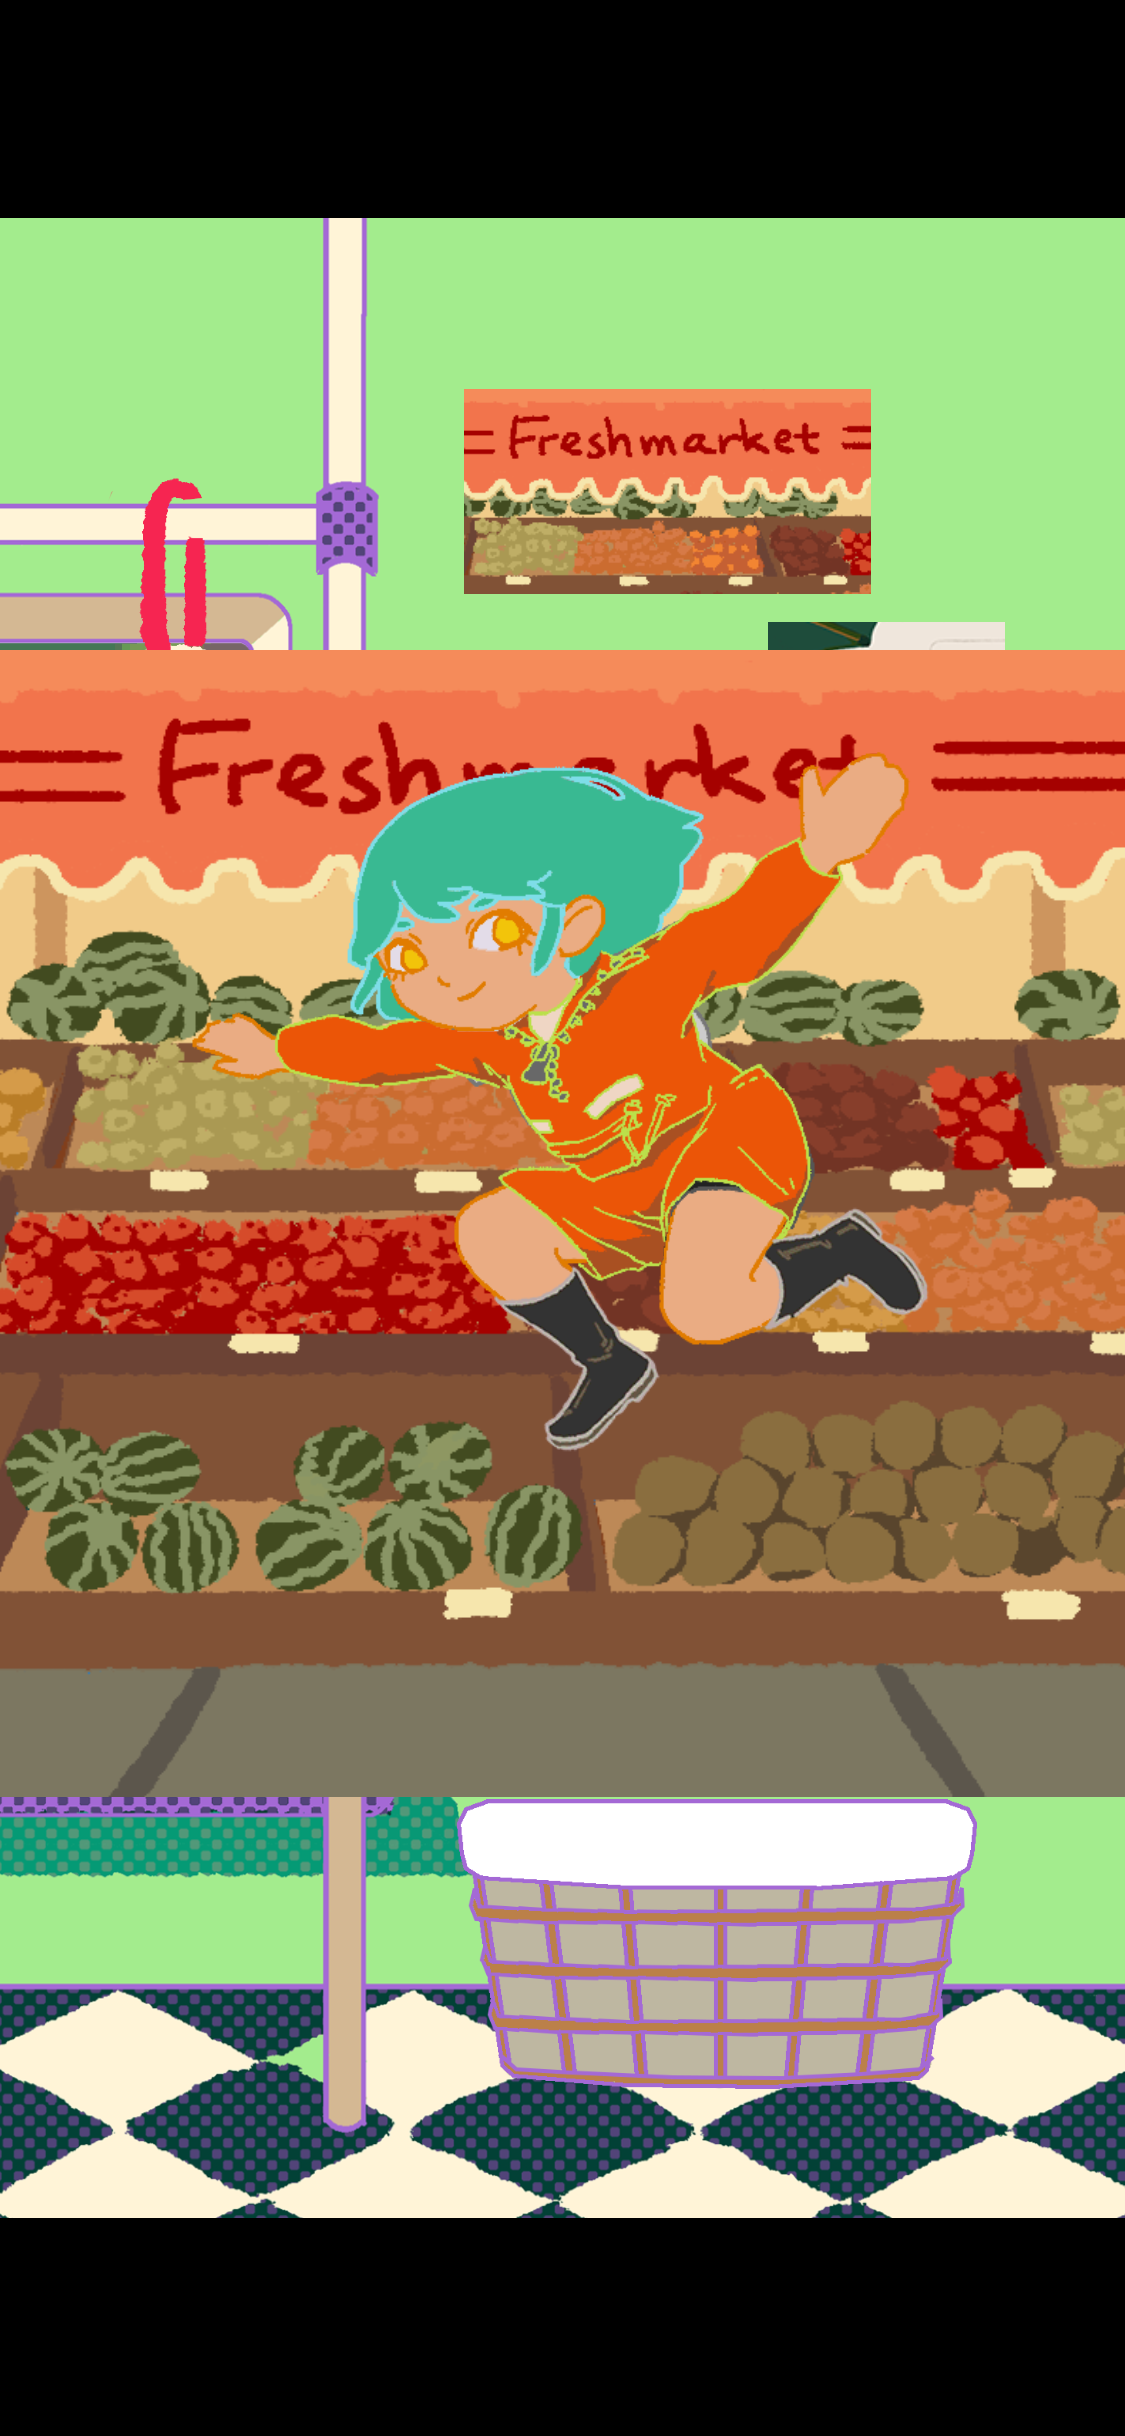
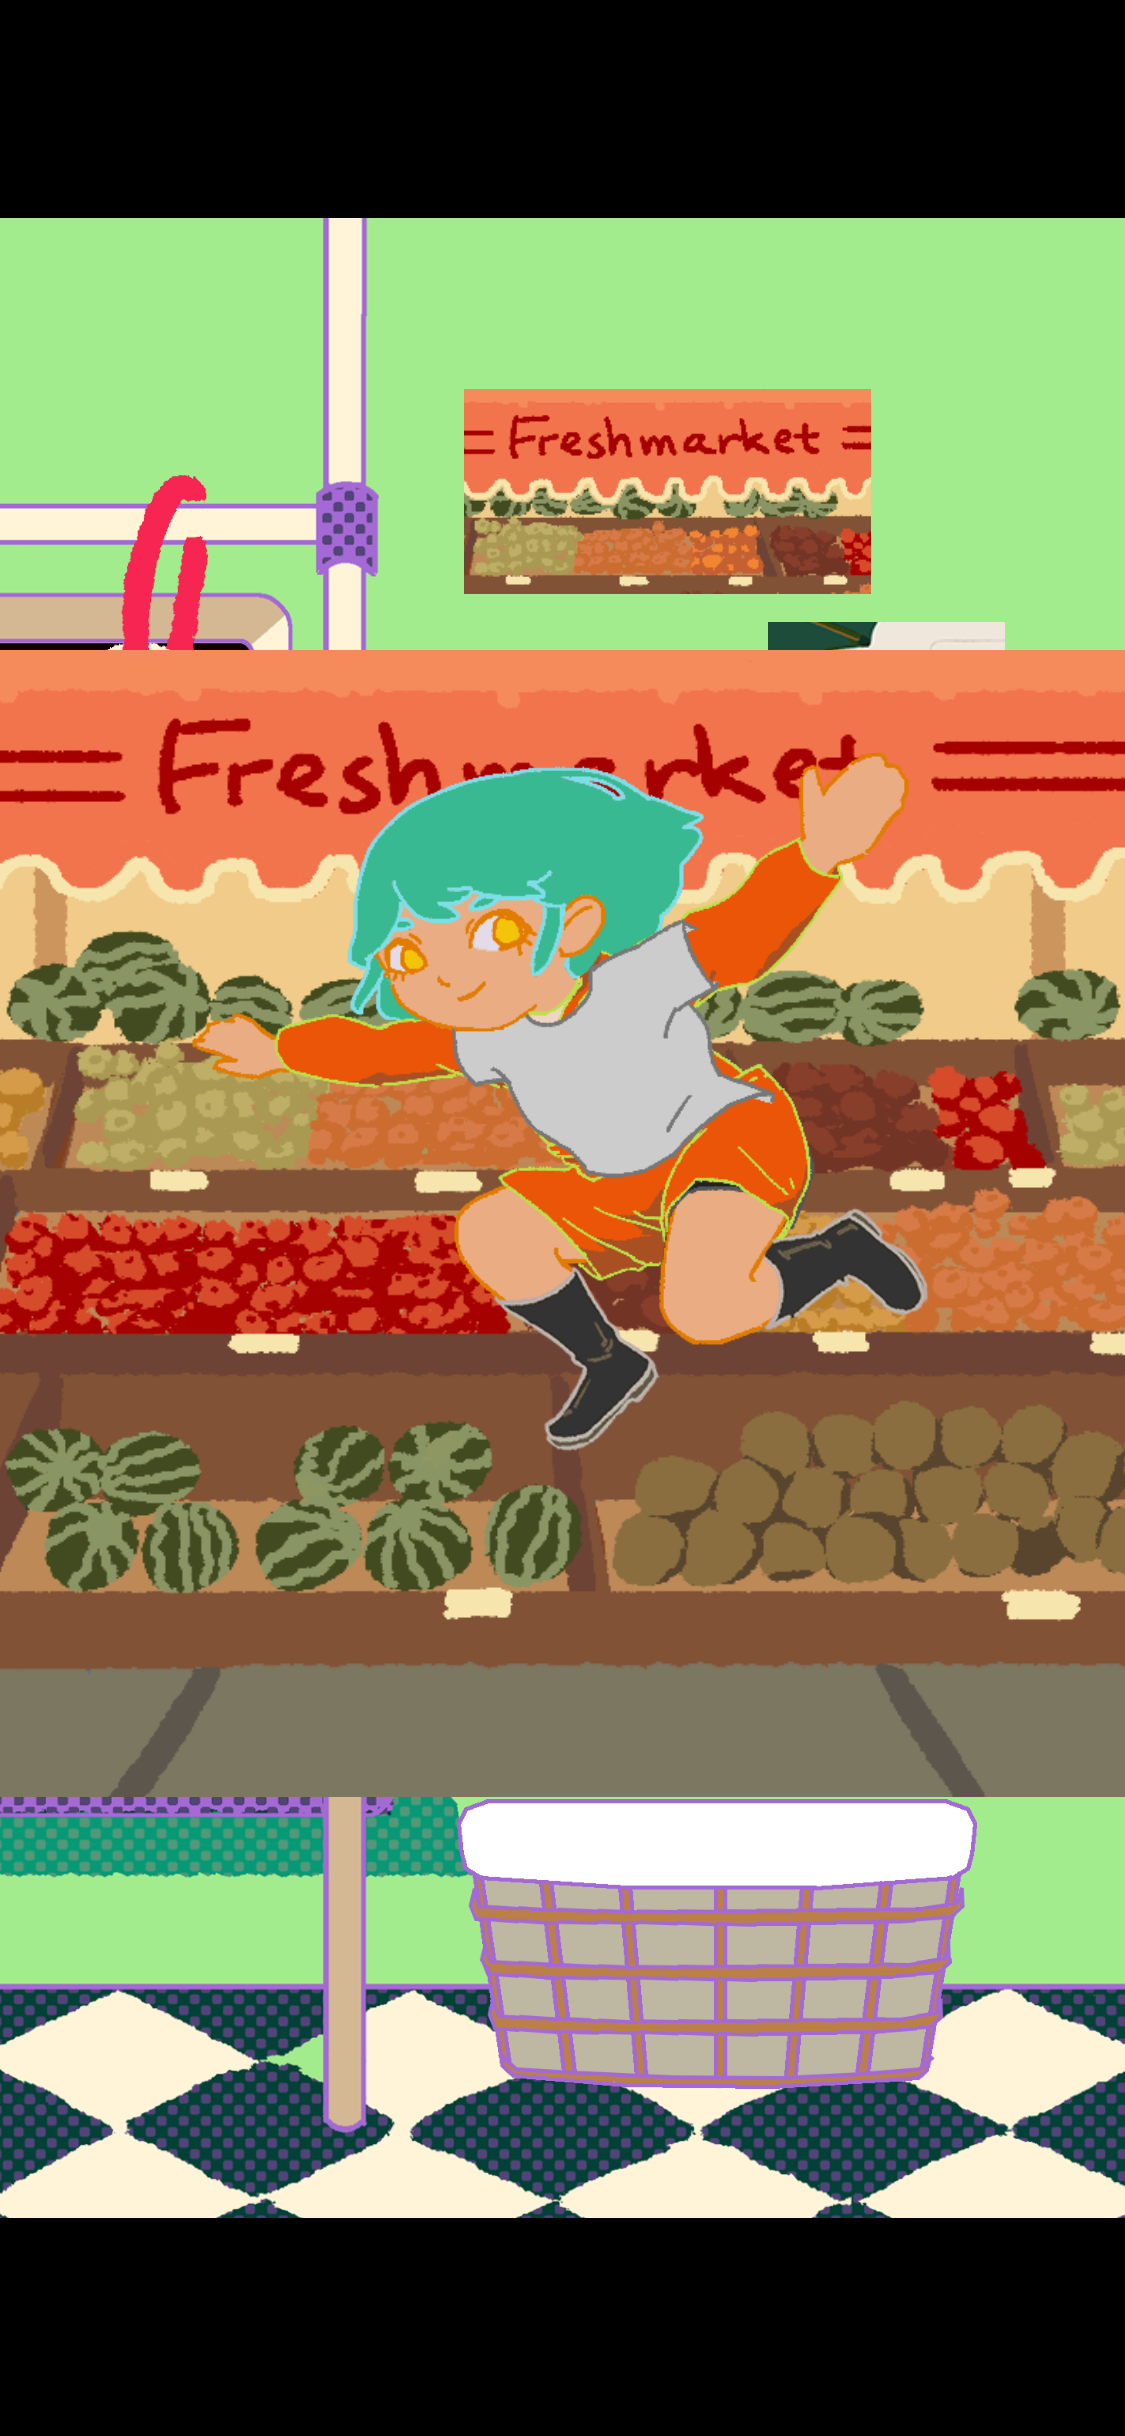
Fixed the ClothUI bug

Changed region(s): [[0.4044, 0.3744, 0.6844, 0.4992], [0.0933, 0.1872, 0.1867, 0.2808]]

diff --git a/Assets/Scripts/Tutorial/TutorialManagerNew.cs b/Assets/Scripts/Tutorial/TutorialManagerNew.cs
@@ -928,8 +928,8 @@ public class TutorialManagerNew : MonoBehaviour
 
         yield return new WaitForSeconds(time);
 
-        ClothUI.SetActive(true);
-        ClothUiAnimator.SetTrigger("StartClosing");
+        // ClothUI.SetActive(true);
+        ClothUiAnimator.SetTrigger("StartShowing");
         
         float Twait = ClothUiAnimator.GetCurrentAnimatorClipInfo(0).Length;
         Debug.Log("TWait: " + Twait);
@@ -940,7 +940,8 @@ public class TutorialManagerNew : MonoBehaviour
         AudioManager.PlayAudio(AudioType.Machine_CloseDoor);
 
         machineOpen = false;
-        ClothUI.SetActive(false);
+        // ClothUI.SetActive(false);
+        ClothUiAnimator.SetTrigger("CloseImmediantly");
 
         deactiveButtons = false;//打开过程有一定时间，到时间前不可再次点击
         isFirstOpen = false;
@@ -966,7 +967,7 @@ public class TutorialManagerNew : MonoBehaviour
         }
         yield return new WaitForSeconds(time);
 
-        ClothUI.SetActive(true);
+        // ClothUI.SetActive(true);
         ClothUiAnimator.SetTrigger("StartShowing");
         
         yield return new WaitForSeconds(time);//等动画播完
@@ -986,11 +987,11 @@ public class TutorialManagerNew : MonoBehaviour
 
         machineOccupied.SetActive(true);
         KararaTalk(EmojiOpenDoor);
-        // ClothUiAnimator.SetTrigger("StartClose");
-        ClothUI.SetActive(false);
-
+        ClothUiAnimator.SetTrigger("StartClosing");
+        // ClothUI.SetActive(false);
+        float t =  ClothUiAnimator.GetCurrentAnimatorClipInfo(0).Length;
     
-        yield return new WaitForSeconds(time);
+        yield return new WaitForSeconds(t);
 
         MachineDoor.sprite = closeDoor;
 
@@ -1104,7 +1105,8 @@ public class TutorialManagerNew : MonoBehaviour
         deactiveButtons = true;
 
         // KararaTalk(EmojiOpenDoor);
-        ClothUI.SetActive(false);
+        ClothUI.GetComponent<Animator>().SetTrigger("CloseImmediantly");
+        // ClothUI.SetActive(false);
 
         yield return new WaitForSeconds(time);
 
@@ -1375,7 +1377,8 @@ public class TutorialManagerNew : MonoBehaviour
         yield return new WaitForSeconds(0.2f);
 
         //衣服消失
-        ClothUI.SetActive(false);//有ui的话也消失
+        // ClothUI.SetActive(false);//有ui的话也消失
+        ClothUI.GetComponent<Animator>().SetTrigger("CloseImmediantly");
         machineFront.sprite = emptyImg;
         yield return new WaitForSeconds(0.2f);
 

diff --git a/Assets/Scripts/Camera/FinalCameraController.cs b/Assets/Scripts/Camera/FinalCameraController.cs
@@ -601,8 +601,12 @@ public class FinalCameraController : MonoBehaviour
     public void MatchToSub()
     {
         StartCoroutine(ScrollToTop(MPsubScrollRect));
-        Show(frontPage);
+        Show(subPage);
         Show(appBackground);
+        Hide(frontPage);
+        Hide(SubwayMap);
+        lastCameraState = myCameraState;
+        myCameraState = CameraState.App;
         myAppState = AppState.MainpageSub;
         FromMatch2Sub = true;
     }
@@ -610,8 +614,10 @@ public class FinalCameraController : MonoBehaviour
     public void SubToMatch()
     {
 
-        Hide(frontPage);
+        Hide(subPage);
         Hide(appBackground);
+        lastCameraState = myCameraState;
+        myCameraState = CameraState.Map;
         FromMatch2Sub = false;
     }
 

diff --git a/Assets/Scripts/Subway/ScrollingBackground.cs b/Assets/Scripts/Subway/ScrollingBackground.cs
@@ -62,7 +62,7 @@ public class ScrollingBackground : MonoBehaviour
             g.transform.SetParent(obj.transform);
             g.transform.localPosition = new Vector3(objectWidth * i, 0, 0);
             g.name = obj.name + i;
-            Destroy(g.GetComponent<BackgroundMovement>());
+            Destroy(g.GetComponent<BackgroundMoving>());
         }
         Destroy(clone);
         Destroy(obj.GetComponent<SpriteRenderer>());

diff --git a/Assets/Scripts/Ins/InstagramController.cs b/Assets/Scripts/Ins/InstagramController.cs
@@ -187,10 +187,12 @@ public class InstagramController : MonoBehaviour
     public void ClickProfilePhoto(string name)
     {
         Debug.Log("Click Profile Photo "+name);
-        FinalCameraController.MainPageToSub();
+        FinalCameraController.MatchToSub();
         clearProfileContent();
         displayProfileContent(name);
     }
+
+
     public void displayProfileContent(string name)
     {
         
